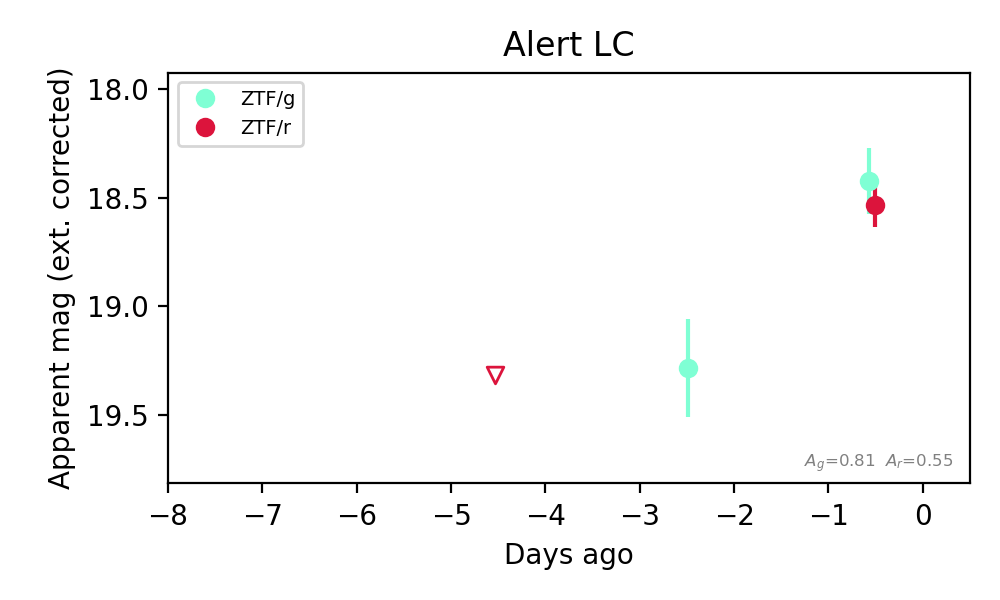
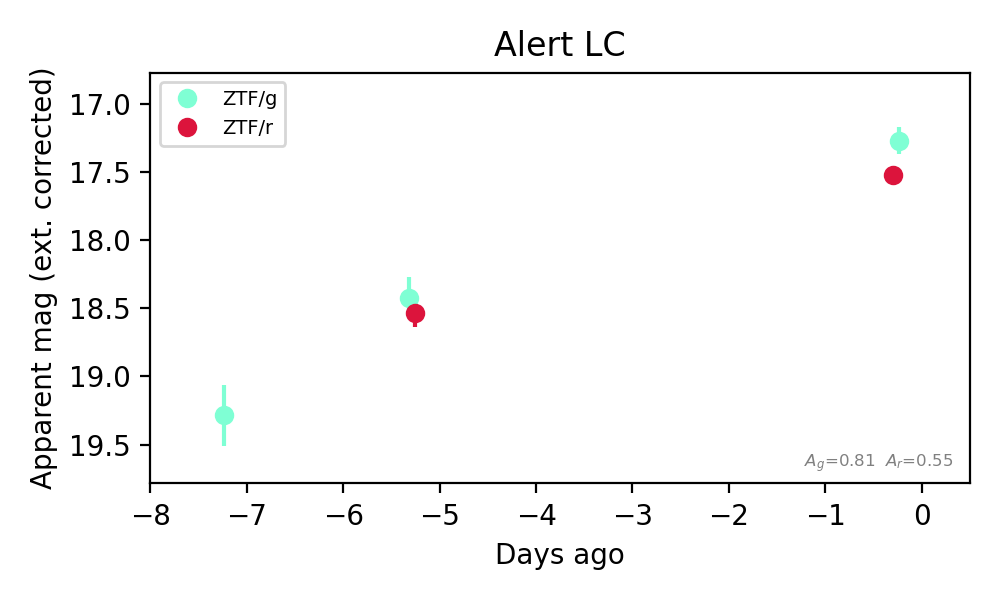
Update HTML from cron job on Mon Oct 26 07:03:11 AM EDT 2026

diff --git a/html/20261026_fastcand.html b/html/20261026_fastcand.html
@@ -1,0 +1,1 @@
+<!doctype html><html><head><title>SOURCE MARSHAL</title><style>                  * {                     box-sizing: border-box;                  }                /* Create two equal columns that floats next to each other */                .column {                         float: left;                         width: 50%;                         padding: 10px;                         #height: 220px; /* Should be removed. Only for demonstration */                }                /* Clear floats after the columns */                .row:after {                        content: "";                        display: table;                        clear: both;                }                /* Rounded corner definition */                #rcorners2 {                    border-radius: 15px;                    border: 2px solid #73AD21;                    padding: 15px;                     width: 80%;                }                table, th, td {                    border: 1px solid black;                    border-collapse: collapse;                }                th, td {                    padding: 5px;                }                th {                    text-align: right;                }                .boxed {                    width: 300px;                    border: 3px outset green;                    text-align: center;                    font-size: 20px;                    margin: 10px;                }                 </style></head><body><font size="5" color="green">Candidate List 20261026</font></br><font size="3" color="green">Last night &mdash; ZTF: 1,704 passed basic cuts (38 young) &middot; LSST: 0 passed basic cuts (0 young)</font></br></br><a href=20261025_fastcand.html target="_blank"><font size="3" color="green">Previous Day</font></a>&nbsp;&nbsp;&nbsp;&nbsp;<a href=20261027_fastcand.html target="_blank"><font size="3" color="green">Next Day</font></a>&nbsp;&nbsp;&nbsp;&nbsp;<br><br><font size="4" color="green"><a href="#sec1">Section 1: New Sources (age<1d)</a></font>&nbsp;&nbsp;&nbsp;&nbsp;<font size="4" color="green"><a href="#sec2">Section 2: Old (1-5d) sources observed last night</a></font></br><font size="1" color="white">placeholder</font></br><hr style="width:50%;text-align:left;margin-left:0"><br><div id="sec1"></div><div class="boxed">Section 1: New Afterglow/FBOT Cands Last Night (0)</div><br><br><br><div id="sec2"></div><div class="boxed">Section 2: Older Sources Observed Last Night (2)</div><div id="ZTF26accexbj"></div>0. <a href="#ZTF26accpume"><b><font size="3">[ZTF] ZTF26accpume (FBOT?)</font></b></a>&nbsp;&nbsp;&nbsp;&nbsp;<a href=#top>[Back to Top]</a>&nbsp;&nbsp;&nbsp;&nbsp;<a href=./ZTF26accpume_announcement.txt>[Share]</a>&nbsp;&nbsp;&nbsp;&nbsp;<a href=./ZTF26accpume_swifttoo.txt>[Trigger Swift]</a></br>&nbsp;&nbsp;&nbsp;&nbsp;[<a href="https://fritz.science/brokers?objectId=ZTF26accpume&survey=ZTF&ra=330.03232015000003&dec=39.93983565&radius=3" target="_blank">Fritz Alert</a>]&nbsp;&nbsp;&nbsp;&nbsp;[<a href="https://fritz.science/source/ZTF26accpume" target="_blank">Fritz Source</a>]&nbsp;&nbsp;&nbsp;&nbsp;[<a href="https://lasair-ztf.lsst.ac.uk/objects/ZTF26accpume/" target="_blank">Lasair</a>]</br>RA, Dec: 330.03232, 39.93984&nbsp;&nbsp;&nbsp;&nbsp;22h 0m7.76s, 39d56m23.41s</br>Galactic (l, b): 90.73511, -11.9889&nbsp;&nbsp;&nbsp;&nbsp;ext(g-r) = 0.259</br></br><img src="./ZTF26accpume_triplet.png" height="200"><a href = http://ps1images.stsci.edu/cgi-bin/ps1cutouts?pos=330.032320+39.939836&filter=color&filter=g&filter=r&filter=i&filter=z&filter=y&filetypes=stack&auxiliary=data&size=240&output_size=240&verbose=0&autoscale=99.500000><img src="./ZTF26accpume_ps1.png" height="200"></a><a href = http://legacysurvey.org/viewer?ra=330.032320&dec=+39.939836&zoom=16&layer=ls-dr10><img src="ZTF26accpume_ls.png" height="200"></a></br><br><br>TESS: Sectors [ 16  83 121]<br><br><br><br><br><b>PS1: 1 source in 3 arcsec</b>&nbsp;&nbsp;&nbsp;&nbsp;Closest: d = 0.82 arcsec&nbsp;&nbsp;&nbsp;&nbsp;photoz=0.27+/-0.03&nbsp;&nbsp;&nbsp;&nbsp;<b>peak abs mag = -23.27</b><br>LegacySurvey: 0 sources in 3 arcsec</br><br><img src="ZTF26accpume_alert_lc.png" height="300"><br>Extinction-corrected gr color:<br>From alerts: -0.25 +/- 0.12 mag<br><br>Rise Rate:<br>g: 0.26 mag/day <br>r: 0.2 mag/day <br><br>Fade Rate:<br><br><br><div id="ZTF26accgroy"></div>1. <a href="#ZTF26accuvdb"><b><font size="3">[ZTF] ZTF26accuvdb (FBOT?)</font></b></a>&nbsp;&nbsp;&nbsp;&nbsp;<a href=#top>[Back to Top]</a>&nbsp;&nbsp;&nbsp;&nbsp;<a href=./ZTF26accuvdb_announcement.txt>[Share]</a>&nbsp;&nbsp;&nbsp;&nbsp;<a href=./ZTF26accuvdb_swifttoo.txt>[Trigger Swift]</a></br>&nbsp;&nbsp;&nbsp;&nbsp;[<a href="https://fritz.science/brokers?objectId=ZTF26accuvdb&survey=ZTF&ra=72.5297161&dec=78.35424195&radius=3" target="_blank">Fritz Alert</a>]&nbsp;&nbsp;&nbsp;&nbsp;[<a href="https://fritz.science/source/ZTF26accuvdb" target="_blank">Fritz Source</a>]&nbsp;&nbsp;&nbsp;&nbsp;[<a href="https://lasair-ztf.lsst.ac.uk/objects/ZTF26accuvdb/" target="_blank">Lasair</a>]</br>RA, Dec: 72.52972, 78.35424&nbsp;&nbsp;&nbsp;&nbsp; 4h50m7.13s, 78d21m15.27s</br>Galactic (l, b): 133.67689, 20.84718&nbsp;&nbsp;&nbsp;&nbsp;ext(g-r) = 0.133</br></br><img src="./ZTF26accuvdb_triplet.png" height="200"><a href = http://ps1images.stsci.edu/cgi-bin/ps1cutouts?pos=72.529716+78.354242&filter=color&filter=g&filter=r&filter=i&filter=z&filter=y&filetypes=stack&auxiliary=data&size=240&output_size=240&verbose=0&autoscale=99.500000><img src="./ZTF26accuvdb_ps1.png" height="200"></a><br><br>TESS: Sectors [19 25 26 52 53 59 60 73 79 86]<br><br><br><br><br><b>PS1: 1 source in 3 arcsec</b>&nbsp;&nbsp;&nbsp;&nbsp;Closest: d = 0.97 arcsec&nbsp;&nbsp;&nbsp;&nbsp;photoz=0.11+/-0.05&nbsp;&nbsp;&nbsp;&nbsp;<b>peak abs mag = -19.64</b><br>LegacySurvey: 0 sources in 3 arcsec</br><br><img src="ZTF26accuvdb_alert_lc.png" height="300"><br>Extinction-corrected gr color:<br>From alerts: -0.07 +/- 0.21 mag<br><b> Consistent with synchrotron, g-r>0!</b><br>Rise Rate:<br>g: 0.22 mag/day <br>r: 0.36 mag/day <br><br>Fade Rate:<br><br><br><br>
